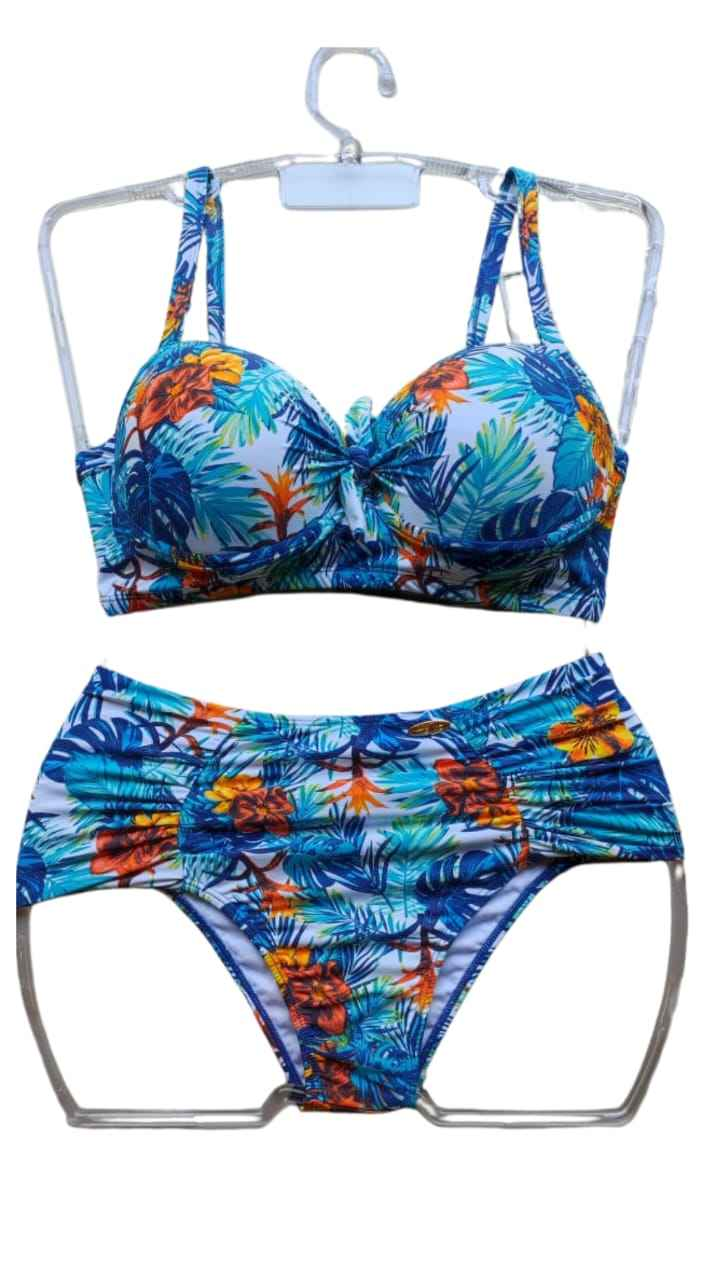
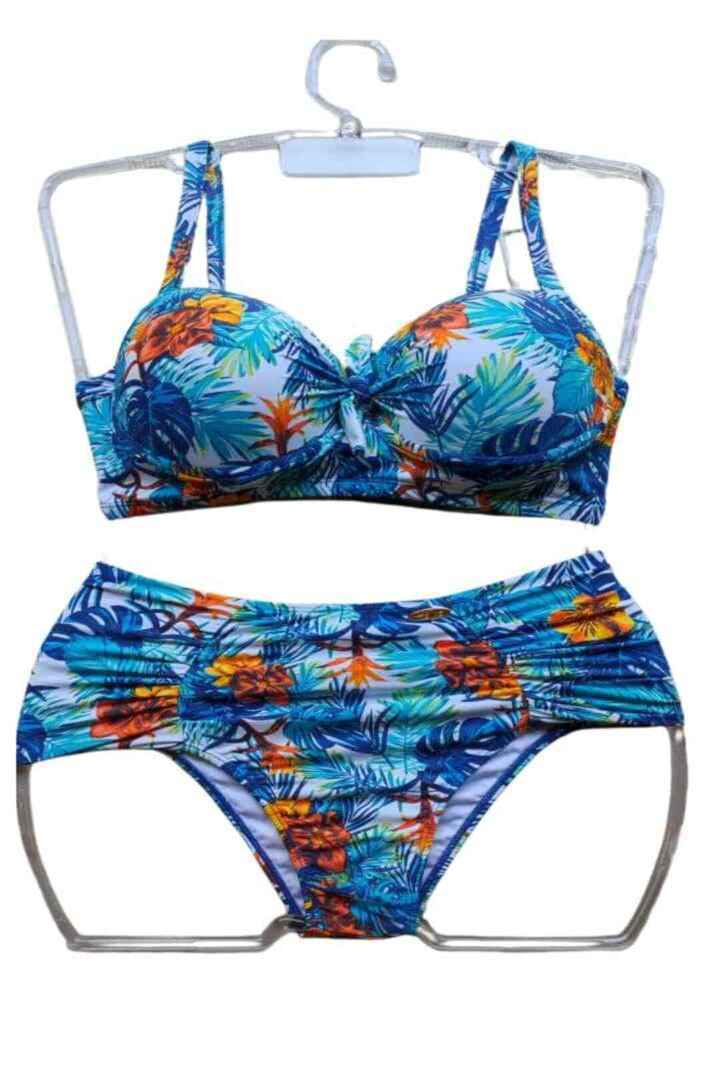
mudando imagens e tirando abas falsas

diff --git a/js/carrito.js b/js/carrito.js
@@ -37,11 +37,11 @@ function cargarProductosCarrito() {
                 </div>
                 <div class="carrito-producto-precio">
                     <small>Preço</small>
-                    <p>$${producto.precio}</p>
+                    <p>R$${producto.precio}</p>
                 </div>
                 <div class="carrito-producto-subtotal">
                     <small>Subtotal</small>
-                    <p>$${producto.precio * producto.cantidad}</p>
+                    <p>R$${producto.precio * producto.cantidad}</p>
                 </div>
                 <button class="carrito-producto-eliminar" id="${producto.id}"><i class="bi bi-trash-fill"></i></button>
             `;
@@ -125,7 +125,7 @@ function vaciarCarrito() {
 
 function actualizarTotal() {
     const totalCalculado = productosEnCarrito.reduce((acc, producto) => acc + (producto.precio * producto.cantidad), 0);
-    total.innerText = `$${totalCalculado}`;
+    total.innerText = `R$${totalCalculado}`;
 }
 
 botonComprar.addEventListener("click", comprarCarrito);

diff --git a/index.html b/index.html
@@ -13,7 +13,7 @@
 
     <div class="wrapper">
         <header class="header-mobile">
-            <h1 class="logo">Helloz Moda Praia</h1>
+            <h1 class="logo">Helluz Moda Praia</h1>
             <button class="open-menu" id="open-menu">
                 <i class="bi bi-list"></i>
             </button>
@@ -23,7 +23,7 @@
                 <i class="bi bi-x"></i>
             </button>
             <header>
-                <h1 class="logo">Helloz Moda Praia</h1>
+                <h1 class="logo">Helluz Moda Praia</h1>
             </header>
             <nav>
                 <ul class="menu">

diff --git a/js/main.js b/js/main.js
@@ -32,7 +32,7 @@ function cargarProductos(productosElegidos) {
             <img class="producto-imagen" src="${producto.imagen}" alt="${producto.titulo}">
             <div class="producto-detalles">
                 <h3 class="producto-titulo">${producto.titulo}</h3>
-                <p class="producto-precio">$${producto.precio}</p>
+                <p class="producto-precio">R$${producto.precio}</p>
                 <button class="producto-agregar" id="${producto.id}">Comprar</button>
             </div>
         `;
